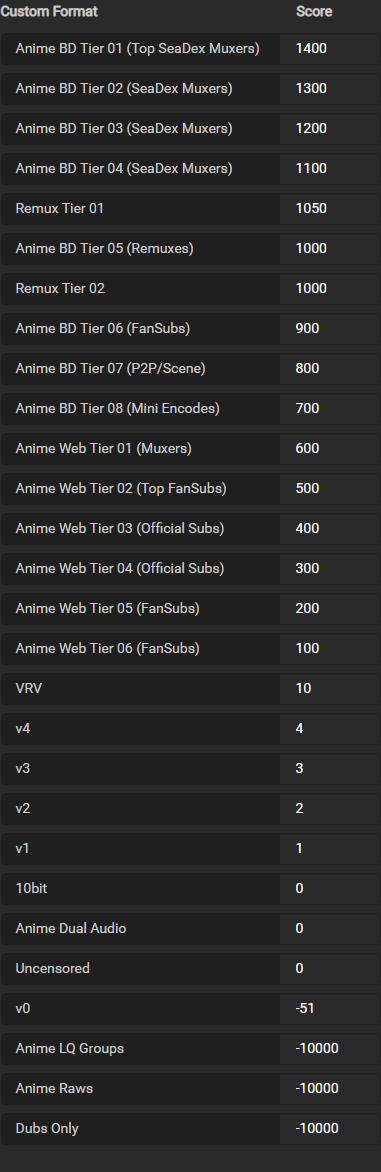
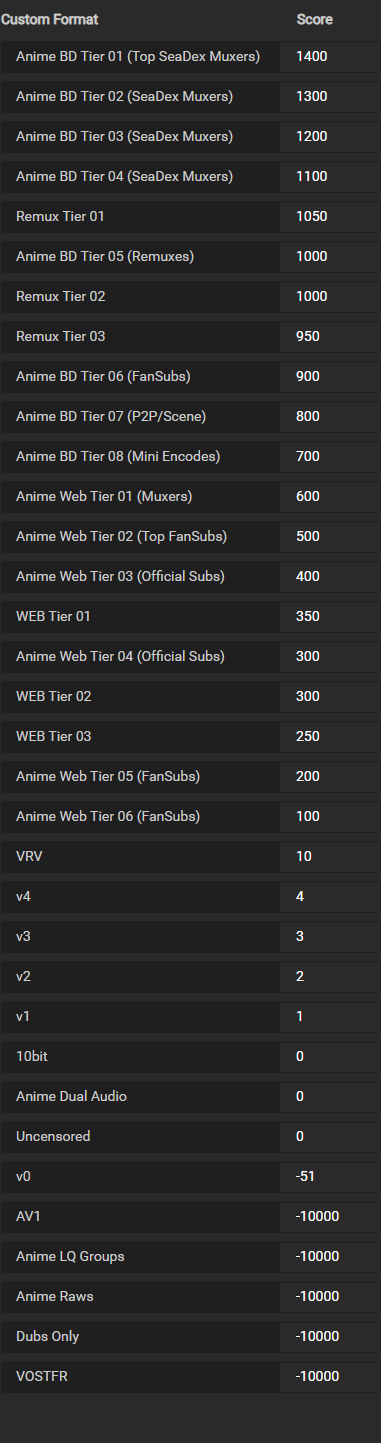
feat(anime): updates to scoring for guides

Changed region(s): [[0.0, 0.0, 0.6929, 0.9829], [0.7795, 0.0, 0.895, 0.9829]]

diff --git a/includes/cf/sonarr-anime.md b/includes/cf/sonarr-anime.md
@@ -11,10 +11,12 @@
     | [{{ sonarr['cf']['anime-bd-tier-08-mini-encodes']['name'] }}](/Sonarr/sonarr-collection-of-custom-formats/#anime-bd-tier-08-mini-encodes)           | {{ sonarr['cf']['anime-bd-tier-08-mini-encodes']['trash_score'] }}      | {{ sonarr['cf']['anime-bd-tier-08-mini-encodes']['trash_id'] }}      |
     | [{{ sonarr['cf']['anime-web-tier-01-muxers']['name'] }}](/Sonarr/sonarr-collection-of-custom-formats/#anime-web-tier-01-muxers)                     | {{ sonarr['cf']['anime-web-tier-01-muxers']['trash_score'] }}           | {{ sonarr['cf']['anime-web-tier-01-muxers']['trash_id'] }}           |
     | [{{ sonarr['cf']['anime-web-tier-02-top-fansubs']['name'] }}](/Sonarr/sonarr-collection-of-custom-formats/#anime-web-tier-02-top-fansubs)           | {{ sonarr['cf']['anime-web-tier-02-top-fansubs']['trash_score'] }}      | {{ sonarr['cf']['anime-web-tier-02-top-fansubs']['trash_id'] }}      |
-    | [{{ sonarr['cf']['web-tier-01']['name'] }}](/Sonarr/sonarr-collection-of-custom-formats/#web-tier-01)                                               | 450                                                                     | {{ sonarr['cf']['web-tier-01']['trash_id'] }}                        |
-    | [{{ sonarr['cf']['web-tier-02']['name'] }}](/Sonarr/sonarr-collection-of-custom-formats/#web-tier-02)                                               | 400                                                                     | {{ sonarr['cf']['web-tier-02']['trash_id'] }}                        |
+    | [{{ sonarr['cf']['web-tier-01']['name'] }}](/Sonarr/sonarr-collection-of-custom-formats/#web-tier-01)                                               | 350                                                                     | {{ sonarr['cf']['web-tier-01']['trash_id'] }}                        |
+    | [{{ sonarr['cf']['web-tier-02']['name'] }}](/Sonarr/sonarr-collection-of-custom-formats/#web-tier-02)                                               | 300                                                                     | {{ sonarr['cf']['web-tier-02']['trash_id'] }}                        |
     | [{{ sonarr['cf']['anime-web-tier-03-official-subs']['name'] }}](/Sonarr/sonarr-collection-of-custom-formats/#anime-web-tier-03-official-subs)       | {{ sonarr['cf']['anime-web-tier-03-official-subs']['trash_score'] }}    | {{ sonarr['cf']['anime-web-tier-03-official-subs']['trash_id'] }}    |
-    | [{{ sonarr['cf']['web-tier-03']['name'] }}](/Sonarr/sonarr-collection-of-custom-formats/#web-tier-03)                                               | 350                                                                     | {{ sonarr['cf']['web-tier-03']['trash_id'] }}                        |
+    | [{{ sonarr['cf']['web-tier-03']['name'] }}](/Sonarr/sonarr-collection-of-custom-formats/#web-tier-03)                                               | 250                                                                     | {{ sonarr['cf']['web-tier-03']['trash_id'] }}                        |
+    | [{{ sonarr['cf']['remux-tier-01']['name'] }}](/Sonarr/sonarr-collection-of-custom-formats/#remux-tier-01)                                           | 1050                                                                    | {{ sonarr['cf']['remux-tier-01']['trash_id'] }}                      |
+    | [{{ sonarr['cf']['remux-tier-02']['name'] }}](/Sonarr/sonarr-collection-of-custom-formats/#remux-tier-02)                                           | 1000                                                                    | {{ sonarr['cf']['remux-tier-02']['trash_id'] }}                      |
     | [{{ sonarr['cf']['anime-web-tier-04-official-subs']['name'] }}](/Sonarr/sonarr-collection-of-custom-formats/#anime-web-tier-04-official-subs)       | {{ sonarr['cf']['anime-web-tier-04-official-subs']['trash_score'] }}    | {{ sonarr['cf']['anime-web-tier-04-official-subs']['trash_id'] }}    |
     | [{{ sonarr['cf']['anime-web-tier-05-fansubs']['name'] }}](/Sonarr/sonarr-collection-of-custom-formats/#anime-web-tier-05-fansubs)                   | {{ sonarr['cf']['anime-web-tier-05-fansubs']['trash_score'] }}          | {{ sonarr['cf']['anime-web-tier-05-fansubs']['trash_id'] }}          |
     | [{{ sonarr['cf']['anime-web-tier-06-fansubs']['name'] }}](/Sonarr/sonarr-collection-of-custom-formats/#anime-web-tier-06-fansubs)                   | {{ sonarr['cf']['anime-web-tier-06-fansubs']['trash_score'] }}          | {{ sonarr['cf']['anime-web-tier-06-fansubs']['trash_id'] }}          |

diff --git a/includes/cf/radarr-anime.md b/includes/cf/radarr-anime.md
@@ -17,6 +17,10 @@
     | [{{ radarr['cf']['anime-web-tier-06-fansubs']['name'] }}](/Radarr/Radarr-collection-of-custom-formats/#anime-web-tier-06-fansubs)                   | {{ radarr['cf']['anime-web-tier-06-fansubs']['trash_score'] }}          | {{ radarr['cf']['anime-web-tier-06-fansubs']['trash_id'] }}          |
     | [{{ radarr['cf']['remux-tier-01']['name'] }}](/Radarr/Radarr-collection-of-custom-formats/#remux-tier-01)                                           | 1050                                                                    | {{ radarr['cf']['remux-tier-01']['trash_id'] }}                      |
     | [{{ radarr['cf']['remux-tier-02']['name'] }}](/Radarr/Radarr-collection-of-custom-formats/#remux-tier-02)                                           | 1000                                                                    | {{ radarr['cf']['remux-tier-02']['trash_id'] }}                      |
+    | [{{ radarr['cf']['remux-tier-03']['name'] }}](/Radarr/Radarr-collection-of-custom-formats/#remux-tier-03)                                           | 950                                                                     | {{ radarr['cf']['remux-tier-03']['trash_id'] }}                      |
+    | [{{ radarr['cf']['web-tier-01']['name'] }}](/Radarr/Radarr-collection-of-custom-formats/#web-tier-01)                                               | 350                                                                     | {{ radarr['cf']['web-tier-01']['trash_id'] }}                      |
+    | [{{ radarr['cf']['web-tier-02']['name'] }}](/Radarr/Radarr-collection-of-custom-formats/#web-tier-02)                                               | 300                                                                     | {{ radarr['cf']['web-tier-02']['trash_id'] }}                      |
+    | [{{ radarr['cf']['web-tier-03']['name'] }}](/Radarr/Radarr-collection-of-custom-formats/#web-tier-03)                                               | 250                                                                     | {{ radarr['cf']['web-tier-03']['trash_id'] }}                      |
     | [{{ radarr['cf']['anime-raws']['name'] }}](/Radarr/Radarr-collection-of-custom-formats/#anime-raws)                                                 | {{ radarr['cf']['anime-raws']['trash_score'] }}                         | {{ radarr['cf']['anime-raws']['trash_id'] }}                         |
     | [{{ radarr['cf']['anime-lq-groups']['name'] }}](/Radarr/Radarr-collection-of-custom-formats/#anime-lq-groups)                                       | {{ radarr['cf']['anime-lq-groups']['trash_score'] }}                    | {{ radarr['cf']['anime-lq-groups']['trash_id'] }}                    |
     | [{{ radarr['cf']['uncensored']['name'] }}](/Radarr/Radarr-collection-of-custom-formats/#uncensored)                                                 | 0                                                                       | {{ radarr['cf']['uncensored']['trash_id'] }}                         |
